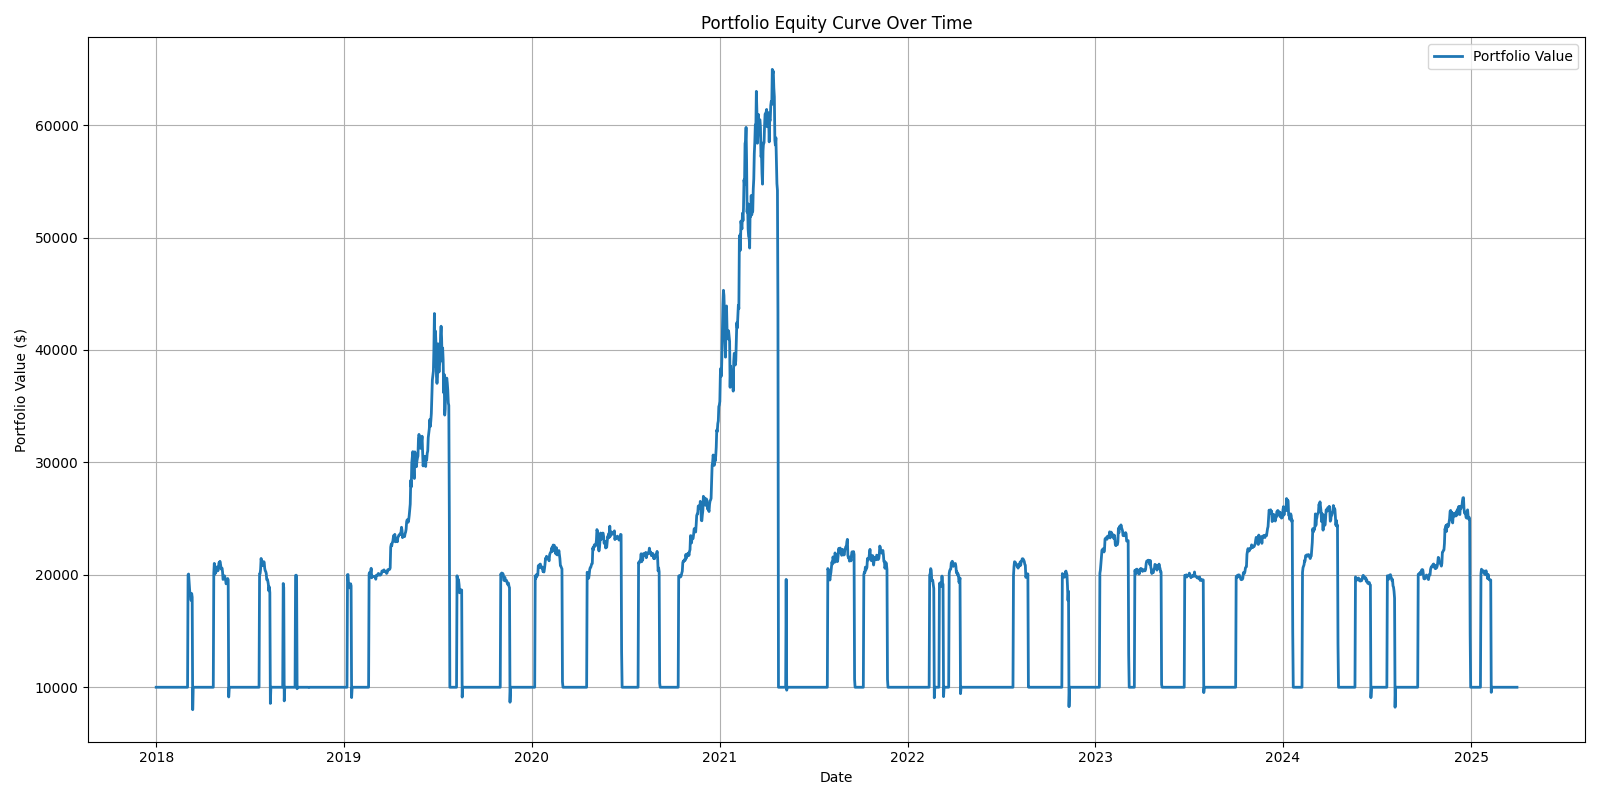
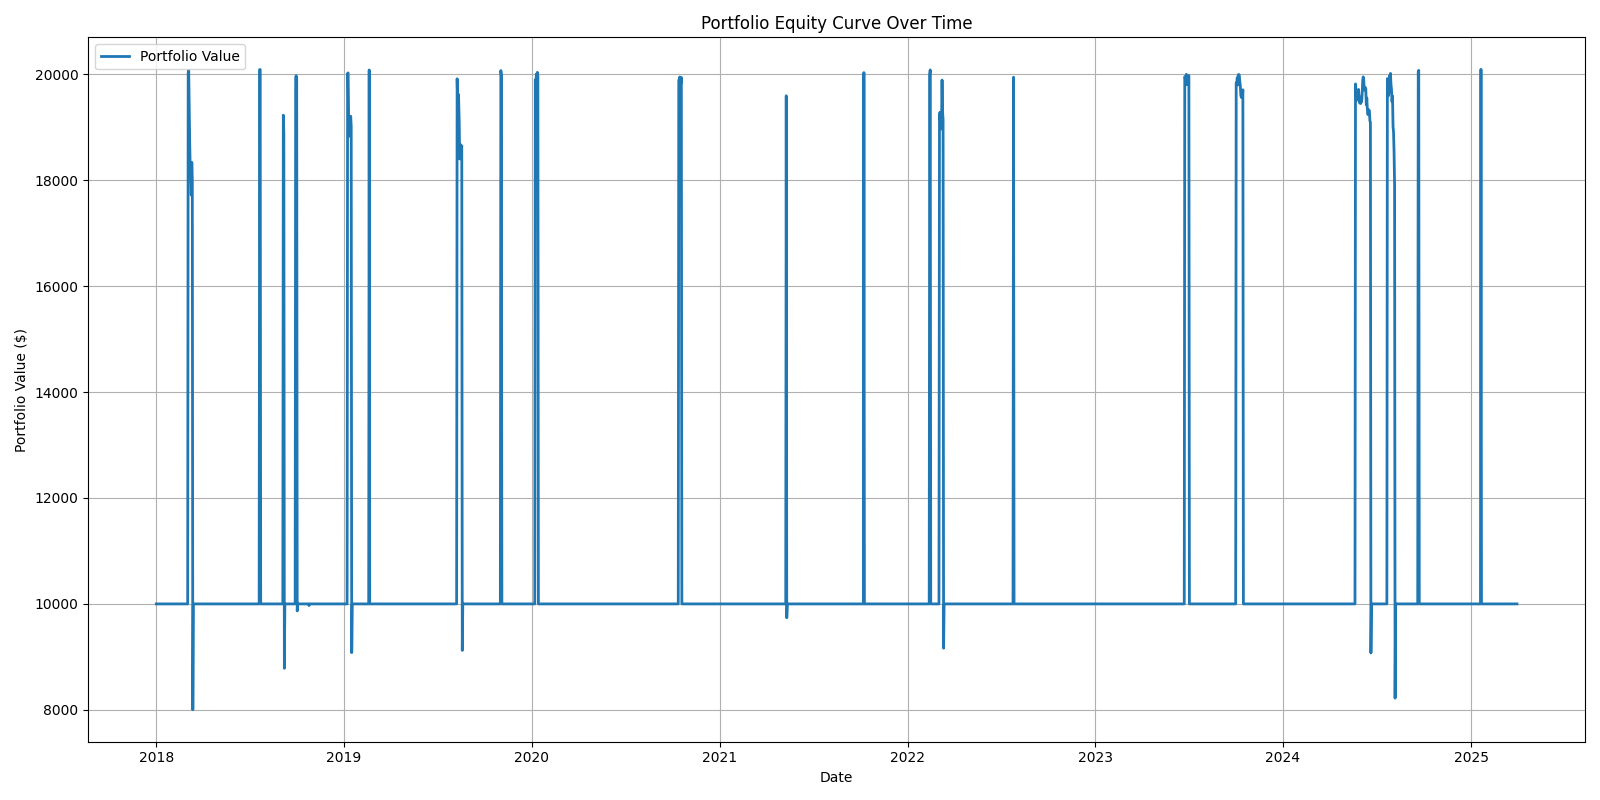
Added risk-managed backtest and ML prediction module. Added stop loss / take profit support with backtestWithRiskControl. Created ML pipeline with 3-day lookahead label and SMOTE. Trained Random Forest model and saved confusion matrix.

diff --git a/src/backtestWithRisk.py b/src/backtestWithRisk.py
@@ -1,0 +1,80 @@
+import pandas as pd
+
+def backtestWithRiskControl(data, initialCapital=10000, stopLoss=0.1, takeProfit=0.2):
+    """
+    Backtests the MA crossover strategy with stop loss and take profit logic.
+
+    Args:
+        data (pd.DataFrame): Strategy DataFrame with 'Close' and 'Position' columns.
+        initialCapital (float): Starting cash.
+        stopLoss (float): % drop from entry price to trigger stop loss (e.g. 0.1 = 10%)
+        takeProfit (float): % rise from entry price to trigger take profit (e.g. 0.2 = 20%)
+
+    Returns:
+        pd.DataFrame: Data with updated cash, holdings, total value, and trades.
+    """
+    data = data.copy()
+
+    # Fill missing values if needed
+    data["Signal"] = data["Signal"].fillna(0)
+    data["Position"] = data["Position"].fillna(0)
+
+    # Portfolio state columns
+    data["Holdings"] = 0.0
+    data["Cash"] = float(initialCapital)
+    data["Total"] = float(initialCapital)
+    data["Trade"] = 0.0
+
+    inPosition = False
+    entryPrice = 0.0
+
+    # Loop through each row in the DataFrame (one day at a time)
+    for i in range(len(data)):
+        row = data.iloc[i]  # Get the current row
+
+        currentPrice = row["Close"]  # Price used for entry, stop loss, take profit
+
+        # BUY Condition: If a buy signal appears and no active position exists
+        if row["Position"] > 0 and not inPosition:
+            entryPrice = currentPrice  # Save the entry price
+            data.at[data.index[i], "Holdings"] = initialCapital  # Convert all cash to holdings
+            data.at[data.index[i], "Cash"] = 0.0  # Cash is now fully used
+            data.at[data.index[i], "Trade"] = 1  # Mark trade as Buy
+            inPosition = True  # Flag that a position is now active
+
+        # In a trade, check for stop loss or take profit conditions
+        elif inPosition:
+            # Calculate current value of asset held
+            qty = initialCapital / entryPrice
+            currentValue = qty * currentPrice
+            data.at[data.index[i], "Holdings"] = currentValue  # Update holding value
+
+            # Check for stop loss
+            if currentPrice <= entryPrice * (1 - stopLoss):
+                # Triggered stop loss condition
+                data.at[data.index[i], "Cash"] = currentValue  # Sell the asset
+                data.at[data.index[i], "Holdings"] = 0.0  # No longer holding
+                data.at[data.index[i], "Trade"] = -1  # Mark this as a forced sell
+                inPosition = False  # Exit position
+                continue  # Skip the rest of this row
+
+            # Check for take profit
+            elif currentPrice >= entryPrice * (1 + takeProfit):
+                # Triggered take profit condition
+                data.at[data.index[i], "Cash"] = currentValue
+                data.at[data.index[i], "Holdings"] = 0.0
+                data.at[data.index[i], "Trade"] = -1
+                inPosition = False
+                continue
+
+            # Signel based sell condition
+            elif row["Position"] < 0:
+                # If stop loss and take profit didn’t trigger, fall back to original sell signal
+                data.at[data.index[i], "Cash"] = currentValue
+                data.at[data.index[i], "Holdings"] = 0.0
+                data.at[data.index[i], "Trade"] = -1
+                inPosition = False
+
+        # Portfoltio Update (every row)
+        data.at[data.index[i], "Total"] = data.at[data.index[i], "Cash"] + data.at[data.index[i], "Holdings"]
+    return data  # Return the full DataFrame with updated portfolio tracking and trade actions

diff --git a/src/createMLDataset.py b/src/createMLDataset.py
@@ -1,0 +1,50 @@
+import pandas as pd
+from imblearn.over_sampling import SMOTE
+from sklearn.model_selection import train_test_split
+
+def createMLDataset(data, lookahead=3, testSize=0.2, randomState=42):
+    """
+    Prepares features and labels for ML using a lookahead price direction label and applies SMOTE.
+
+    Args:
+        data (pd.DataFrame): Must include a 'Close' column.
+        lookahead (int): Number of days to look ahead when generating the label.
+        testSize (float): Proportion of data to reserve for testing.
+        randomState (int): For reproducibility.
+
+    Returns:
+        X_train, X_test, y_train, y_test: Balanced training sets and untouched test sets
+    """
+    df = data.copy()
+
+    # Create features and labels
+    # 1 if future price is higher than current price N days ahead, else 0
+    df["Label"] = (df["Close"].shift(-lookahead) > df["Close"]).astype(int)
+
+    # Drop rows with missing lookahead targets
+    df = df.dropna()
+
+    df["Return_1D"] = df["Close"].pct_change()                   # Daily return
+    df["MA_5"] = df["Close"].rolling(window=5).mean()            # 5-day moving average
+    df["MA_10"] = df["Close"].rolling(window=10).mean()          # 10-day moving average
+    df["Volatility_5D"] = df["Close"].rolling(window=5).std()    # 5-day rolling std deviation (volatility)
+    df["Volume_Change"] = df["Volume"].pct_change()              # Volume change as signal
+
+    # Drop initial rows with NaNs from rolling functions
+    df = df.dropna()
+
+        # Define input features and target label
+    featureCols = ["Return_1D", "MA_5", "MA_10", "Volatility_5D", "Volume_Change"]
+    X = df[featureCols]
+    y = df["Label"]
+
+    # Split into training and test sets
+    X_train, X_test, y_train, y_test = train_test_split(
+        X, y, test_size=testSize, random_state=randomState, shuffle=False
+    )
+
+    # Apply SMOTE only on training data
+    smote = SMOTE(random_state=randomState)
+    X_train_resampled, y_train_resampled = smote.fit_resample(X_train, y_train)
+
+    return X_train_resampled, X_test, y_train_resampled, y_test

diff --git a/src/trainMLModel.py b/src/trainMLModel.py
@@ -1,0 +1,48 @@
+from sklearn.ensemble import RandomForestClassifier
+from sklearn.metrics import classification_report, accuracy_score, confusion_matrix
+import matplotlib.pyplot as plt
+import seaborn as sns
+
+def trainAndEvaluateModel(X_train, X_test, y_train, y_test):
+    """
+    Trains a random forest model and evaluates it.
+
+    Returns:
+        model: Trained model
+        metrics: Dict of accuracy and classification report
+    """
+    model = RandomForestClassifier(n_estimators=100, random_state=42)
+    model.fit(X_train, y_train)
+
+    predictions = model.predict(X_test)
+
+    accuracy = accuracy_score(y_test, predictions)
+    report = classification_report(y_test, predictions, output_dict=True)
+
+    metrics = {
+        "Accuracy": round(accuracy * 100, 2),
+        "Precision (Up)": round(report["1"]["precision"], 2),
+        "Recall (Up)": round(report["1"]["recall"], 2),
+        "F1 (Up)": round(report["1"]["f1-score"], 2),
+        "Precision (Down)": round(report["0"]["precision"], 2),
+        "Recall (Down)": round(report["0"]["recall"], 2),
+        "F1 (Down)": round(report["0"]["f1-score"], 2),
+    }
+
+    return model, metrics, predictions
+
+def plotConfusionMatrix(y_true, y_pred, saveTo="images/"):
+    """
+    Plots and saves a confusion matrix for ML classification results.
+    """
+    cm = confusion_matrix(y_true, y_pred)
+    labels = ["Down", "Up"]
+
+    plt.figure(figsize=(6, 4))
+    sns.heatmap(cm, annot=True, fmt="d", xticklabels=labels, yticklabels=labels, cmap="Blues")
+    plt.title("ML Confusion Matrix")
+    plt.xlabel("Predicted")
+    plt.ylabel("Actual")
+    plt.tight_layout()
+    plt.savefig(f"{saveTo}mlConfusionMatrix.png")
+    plt.close()

diff --git a/main.py b/main.py
@@ -4,6 +4,10 @@ from src.plotSignals import plotSignals
 from src.backtestStrategy import backtestMAStrategy
 from src.plotBacktest import plotBacktestStrategy
 from src.evaluatePerformance import evaluatePerformance
+from src.backtestWithRisk import backtestWithRiskControl
+from src.createMLDataset import createMLDataset
+from src.trainMLModel import trainAndEvaluateModel, plotConfusionMatrix
+
 
 
 
@@ -14,7 +18,8 @@ dataWithSignals = applyMAStrategy(dataFrame)
 plotSignals(dataWithSignals)
 # print(dataWithSignals[["Close", "ShortMA", "LongMA", "Signal", "Position"]].tail(10))
 
-backtestedData = backtestMAStrategy(dataWithSignals)
+# backtestedData = backtestMAStrategy(dataWithSignals)
+backtestedData = backtestWithRiskControl(dataWithSignals, stopLoss=0.5, takeProfit=0.01)
 plotBacktestStrategy(backtestedData)
 
 # print(backtestedData[["Close", "ShortMA", "LongMA", "Signal", "Position", "Holdings", "Cash", "Total", "Trade"]].tail(20))
@@ -22,8 +27,25 @@ plotBacktestStrategy(backtestedData)
 # trades = backtestedData[backtestedData["Trade"] != 0].copy()
 # print(trades)
 
+# Results
 performance = evaluatePerformance(backtestedData)
 print("\nStrategy Performance Summary:")
 for key, value in performance.items():
     print(f"{key}: {value}")
+
+
+# Prepare ML dataset
+X_train, X_test, y_train, y_test = createMLDataset(dataWithSignals)
+
+# Train and evaluate model
+model, mlMetrics, mlPredictions = trainAndEvaluateModel(X_train, X_test, y_train, y_test)
+plotConfusionMatrix(y_test, mlPredictions)
+
+
+# Results
+print("\nML Model Performance (3-day Lookahead):")
+for key, value in mlMetrics.items():
+    print(f"{key}: {value}")
+
+
 

diff --git a/README.md b/README.md
@@ -217,3 +217,122 @@ Performance metrics quantify how effective a strategy is. They provide measurabl
 
 This information is essential for comparing strategies, improving performance, and making decisions about deploying the strategy in a live or automated setting.
 
+---
+
+## Stop Loss & Take Profit Logic: `backtestWithRiskControl.py`
+
+This module enhances the strategy by adding real-world risk management techniques — namely stop loss and take profit controls.
+
+These rules allow trades to exit early based on price movement, rather than waiting for a crossover signal. The goal is to limit large losses and secure profits more reliably.
+
+#### Logic Overview
+
+After entering a trade, each row is checked against two conditions:
+
+- **Stop Loss**: If the price drops more than a defined percentage below the entry price (e.g. 10%, 20%, or 50%), the trade is exited early to prevent a larger loss.
+- **Take Profit**: If the price increases above the entry price by a defined percentage (e.g. 1%, 5%, or 10%), the trade is exited early to lock in a gain.
+
+If neither condition is met, the trade will still exit on the next `-1` crossover signal as before.
+
+These thresholds are configurable. For example:
+
+```python
+backtestWithRiskControl(data, stopLoss=0.5, takeProfit=0.01)
+```
+
+This would exit any trade that falls 50% below or gains 1% above its entry price.
+
+
+#### Example Trade Outcome
+
+In a trade starting at `$11,489.70`, if the price reached `$11,604.60` (+1%), the take profit rule would trigger.  
+If the price fell to `$5,744.85` (-50%), the stop loss would activate instead.
+
+When risk controls are hit, the trade exits early — skipping the normal crossover sell signal.
+
+#### Equity Curve Behavior
+
+The resulting portfolio equity curve often shows "step-like" jumps:
+
+- A trade is entered  
+- A small move triggers an exit via take profit  
+- The portfolio returns to cash and waits
+
+This pattern is common when tight take profit thresholds are used. While it may lead to high win rates, it can also result in lower overall returns due to limited exposure and no compounding.
+
+### Why
+
+Stop loss and take profit logic bring strategy behavior closer to real-world expectations. They:
+
+- Prevent capital from being tied up in long, losing trades  
+- Allow gains to be locked in automatically  
+- Provide a flexible tool for managing volatility and fine-tuning risk
+
+This version of the strategy creates a strong foundation for further experimentation and optimization.
+
+---
+
+## Machine Learning Strategy: `createMLDataset.py` & `trainMLModel.py`
+
+This phase uses supervised machine learning to predict whether price will rise or fall over the next 3 days.  
+The model is trained on engineered features and outputs classification metrics to evaluate predictive power.
+
+#### Label Logic
+
+A 3-day lookahead label is generated:
+- If the closing price 3 days later is higher than today → label is `1`
+- Otherwise → label is `0`
+
+This gives the model a goal: identify patterns that historically led to upward or downward movement 3 days later.
+
+#### Feature Engineering
+
+The model uses a small set of technical features:
+
+| Feature         | Description |
+|-----------------|-------------|
+| Return_1D       | % change in price from previous day  
+| MA_5, MA_10     | 5-day and 10-day moving averages  
+| Volatility_5D   | Standard deviation of closing prices over 5 days (price risk)  
+| Volume_Change   | Day-to-day change in volume
+
+#### SMOTE for Class Imbalance
+
+Most trading data is unbalanced — price goes up more often than it goes down.  
+To prevent the model from learning to always predict the majority class, SMOTE is used to synthetically balance the `1` and `0` labels in the training set.
+
+#### Model Used
+
+A Random Forest classifier is trained on the balanced dataset. It predicts class labels (`0` or `1`) on unseen test data, and reports standard classification metrics:
+
+- **Accuracy**: Overall correct predictions
+- **Precision**: How often each prediction was correct
+- **Recall**: How many actual cases were found
+- **F1 Score**: Balance of precision and recall
+
+#### Example Output
+
+```
+ML Model Performance (3-day Lookahead):
+Accuracy: 50.97
+Precision (Up): 0.65
+Recall (Up): 0.22
+F1 (Up): 0.33
+Precision (Down): 0.48
+Recall (Down): 0.86
+F1 (Down): 0.61
+```
+
+This shows that the model predicts "Down" movements more consistently, while missing many upward moves — a sign that further feature tuning or label adjustments are needed.
+
+#### Visualizing Model Performance
+
+A confusion matrix is saved as an image at:
+
+```
+images/mlConfusionMatrix.png
+```
+
+This shows the number of correct and incorrect predictions per class, making it easier to evaluate where the model performs well or poorly.
+
+---
